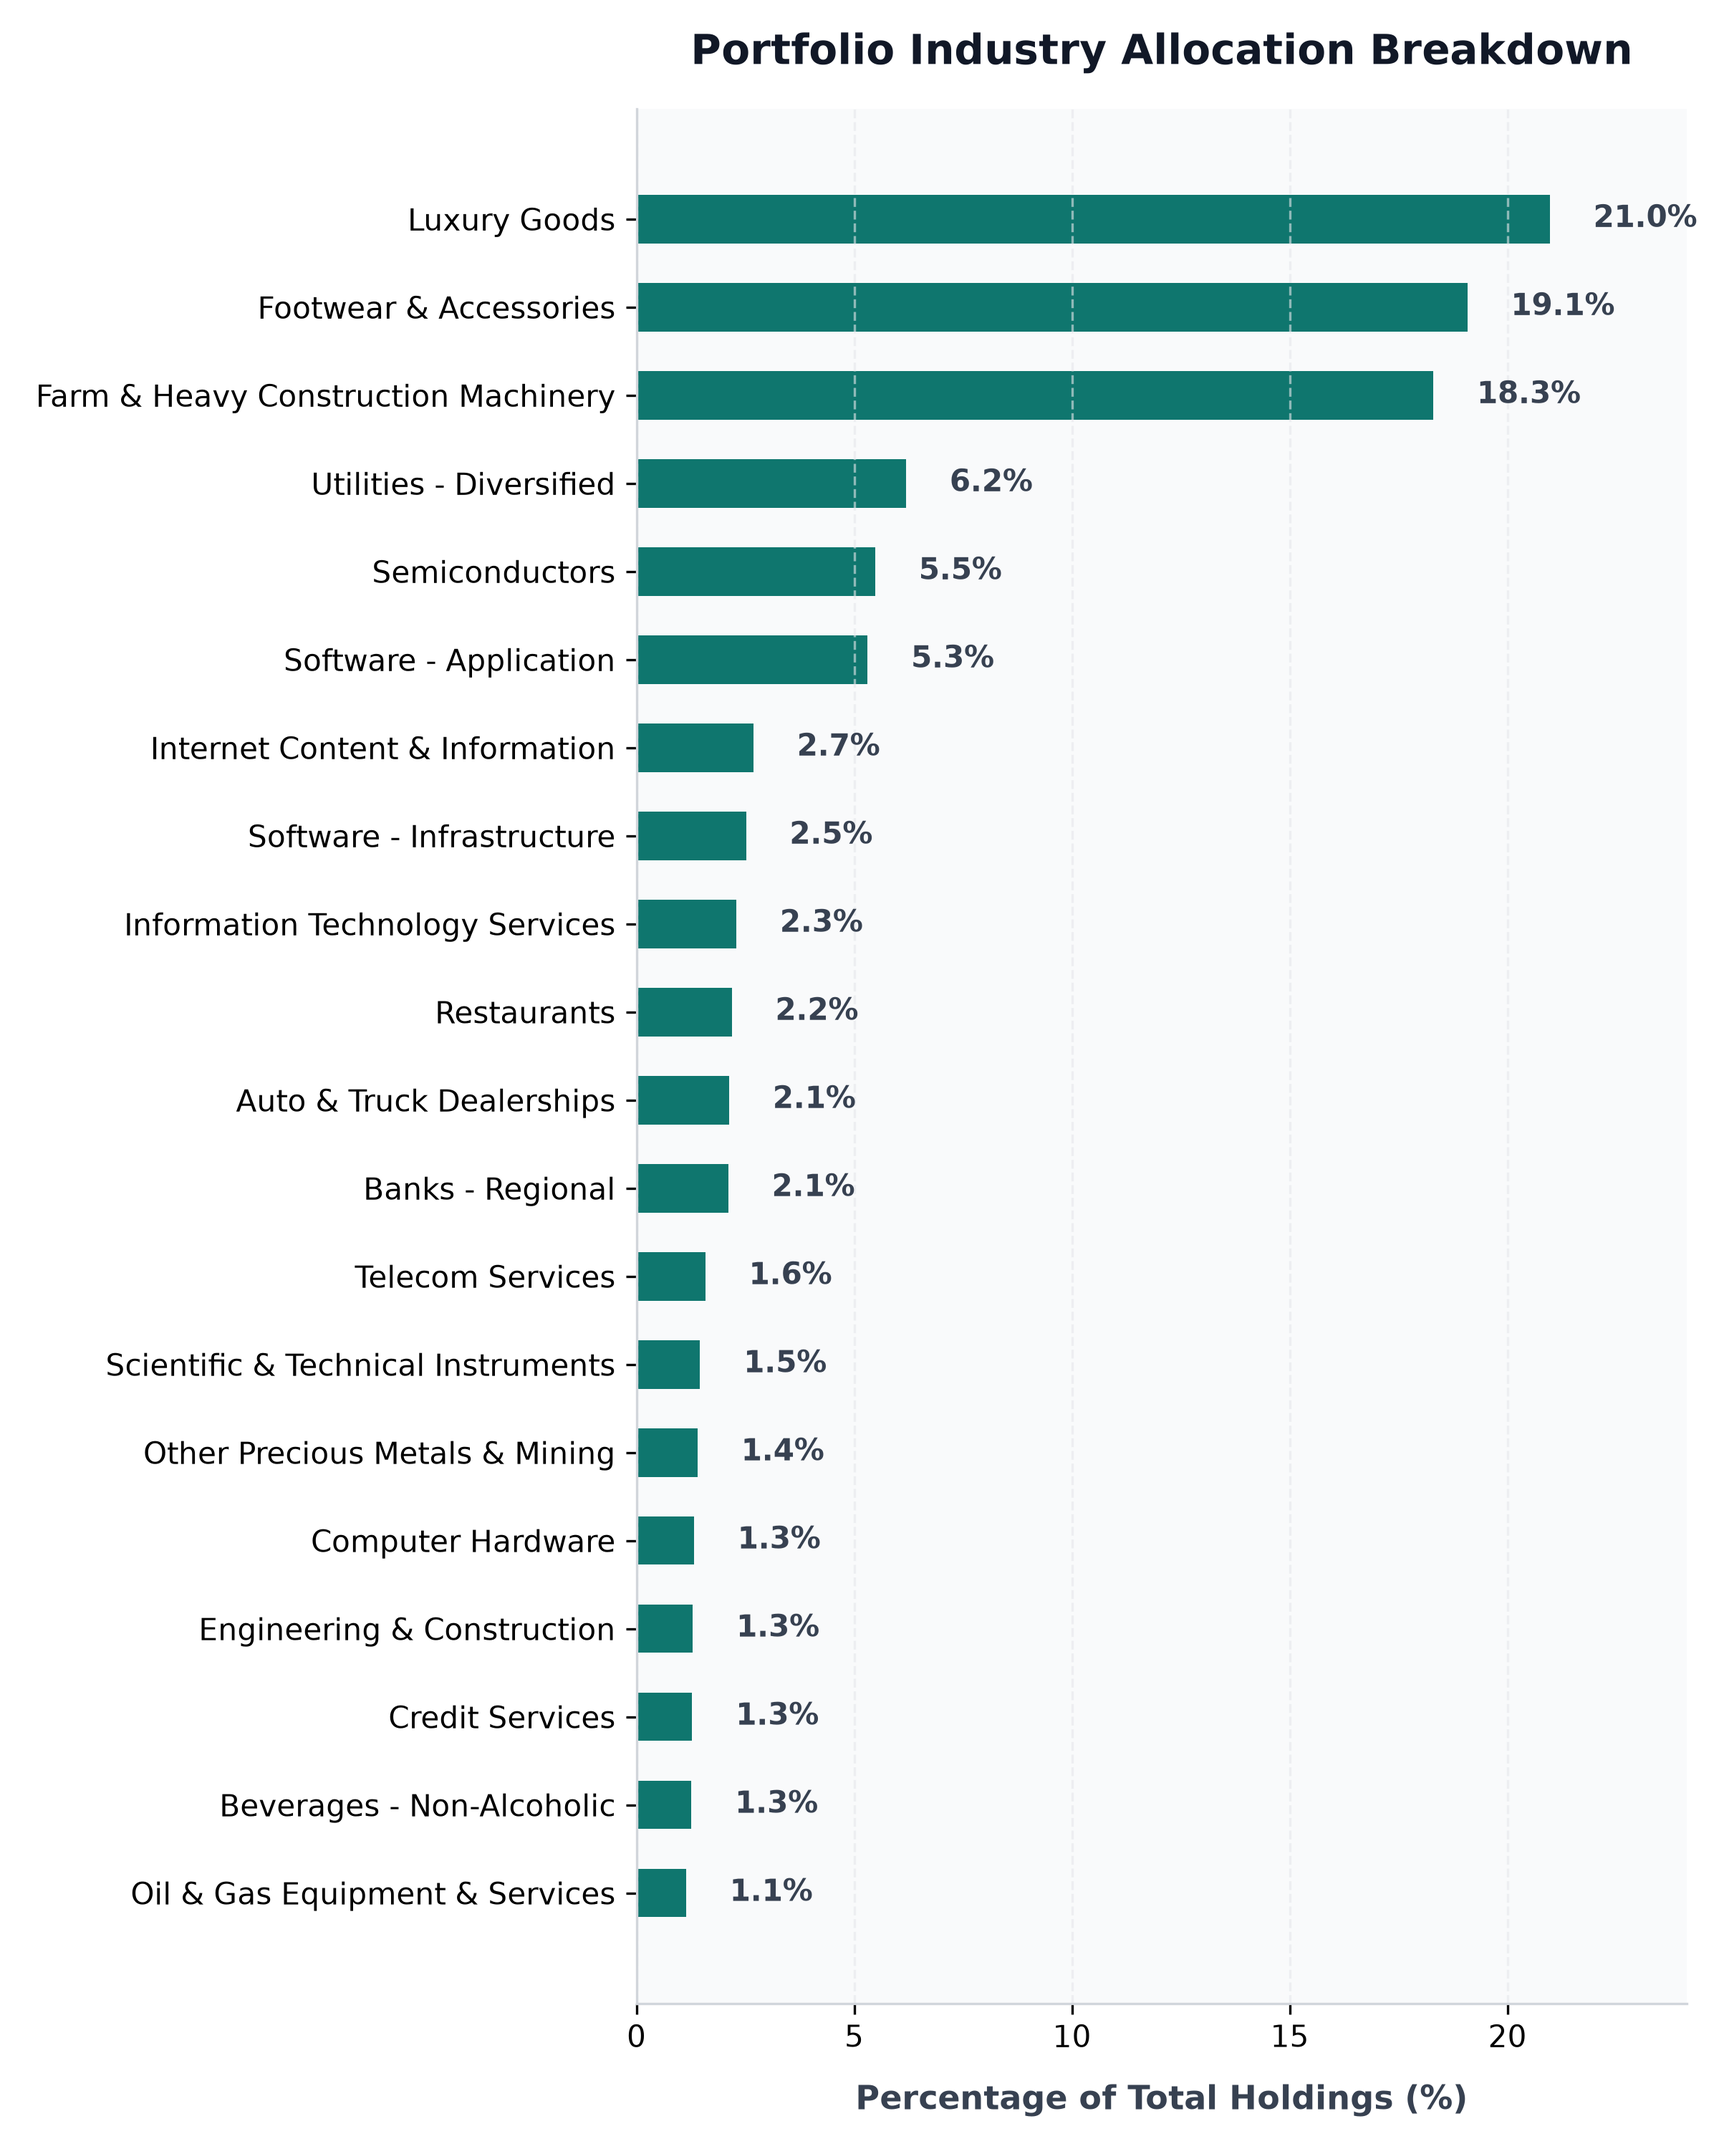
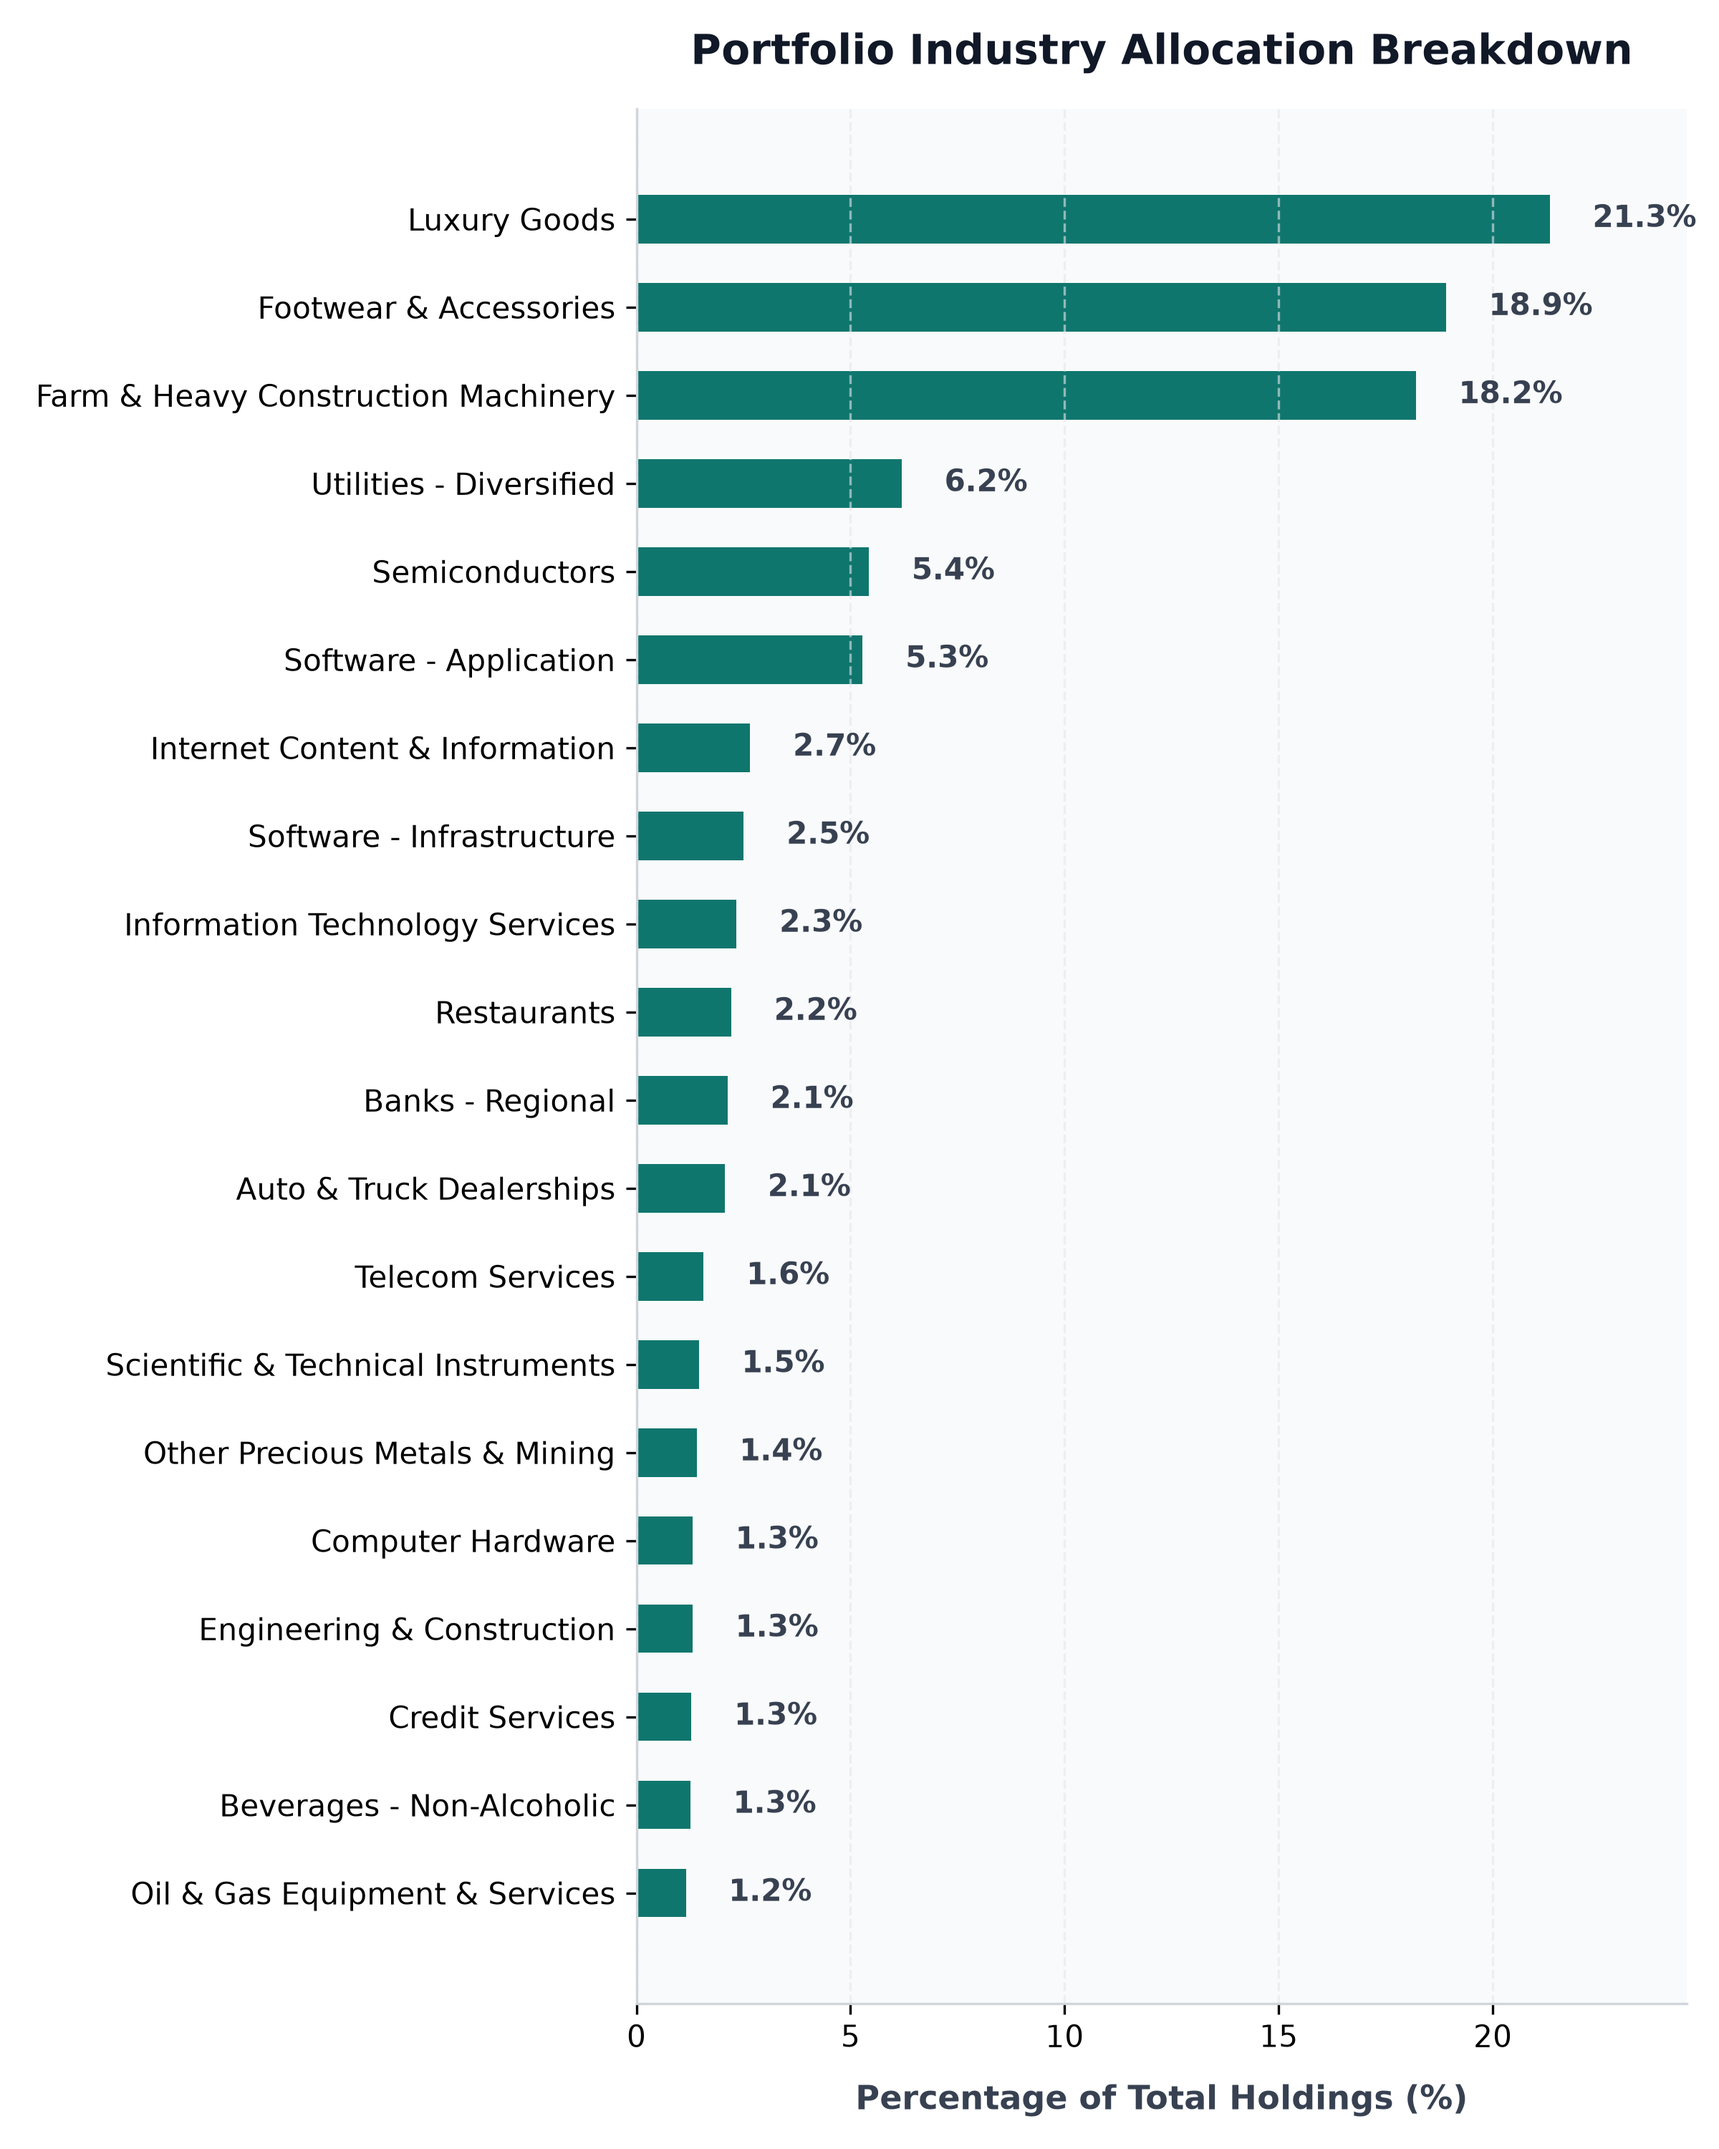
auto: daily portfolio status update - 2026-10-07 00:00:14

diff --git a/src/content/posts/portfolio-performance.md b/src/content/posts/portfolio-performance.md
@@ -1,6 +1,6 @@
 ---
 title: "BadOmen Algorithmic Portfolio Performance & PnL Report"
-pubDatetime: 2026-10-06T06:05:13.497513+08:00
+pubDatetime: 2026-10-07T00:00:14.117391+08:00
 description: "Live performance metrics, active holdings, and historic equity curve for the BadOmen automated paper trading portfolio."
 featured: true
 draft: false
@@ -16,11 +16,11 @@ Welcome to the live performance dashboard for **BadOmen**, our automated algorit
 ## 📊 Portfolio Summary
 | Performance Metric | Value | description |
 | :--- | :--- | :--- |
-| **Net Portfolio Equity** | **$96,219.36** | Total current liquidation value of cash and stock holdings |
-| **Total Unrealized P&L** | 🔴 **$-4,832.75** (-4.78%) | Total return of current open holdings |
+| **Net Portfolio Equity** | **$96,922.30** | Total current liquidation value of cash and stock holdings |
+| **Total Unrealized P&L** | 🔴 **$-4,128.43** (-4.09%) | Total return of current open holdings |
 | **Cash Balance** | $24,224.56 | Idle reserve currency available for limit orders |
-| **Buying Power** | $298,483.67 | Margin-backed buying power for entry allocations |
-| **Report Updated** | `2026-10-06 06:05:13 (SGT)` | Timestamp of daily execution and sync run |
+| **Buying Power** | $300,451.92 | Margin-backed buying power for entry allocations |
+| **Report Updated** | `2026-10-07 00:00:14 (SGT)` | Timestamp of daily execution and sync run |
 
 ## 📈 Net Equity Growth Curve
 The chart below illustrates the historical performance of the account starting from our baseline capital funding of $100,000.00.
@@ -35,35 +35,35 @@ The chart below illustrates the exposure of our currently held active positions 
 ## 💼 Current Position Holdings
 | Ticker | Industry | Shares Owned | Average Entry Cost | Current Price | Unrealized P&L | Return (%) |
 | :--- | :--- | :--- | :--- | :--- | :--- | :--- |
-| **AN** | Auto & Truck Dealerships | 5 | $188.51 | $161.67 | 🔴 $-134.19 | -14.24% |
-| **AVGO** | Semiconductors | 1 | $385.71 | $362.53 | 🔴 $-23.18 | -6.01% |
-| **BIRK** | Footwear & Accessories | 407 | $37.32 | $33.75 | 🔴 $-1,452.06 | -9.56% |
-| **BLBD** | Farm & Heavy Construction Machinery | 231 | $65.52 | $57.03 | 🔴 $-1,960.26 | -12.95% |
-| **BVN** | Other Precious Metals & Mining | 32 | $31.88 | $31.59 | 🔴 $-9.12 | -0.89% |
-| **CELH** | Beverages - Non-Alcoholic | 33 | $29.71 | $27.55 | 🔴 $-71.37 | -7.28% |
-| **CPRI** | Luxury Goods | 1042 | $14.55 | $14.49 | 🔴 $-64.40 | -0.43% |
-| **DUOL** | Software - Application | 14 | $131.04 | $146.52 | 🟢 +$216.59 | +11.81% |
-| **FIS** | Information Technology Services | 23 | $41.79 | $33.59 | 🔴 $-188.60 | -19.62% |
-| **GDDY** | Software - Infrastructure | 6 | $76.21 | $99.54 | 🟢 +$139.98 | +30.61% |
-| **GDS** | Information Technology Services | 30 | $32.77 | $29.29 | 🔴 $-104.40 | -10.62% |
-| **GGAL** | Banks - Regional | 17 | $56.04 | $38.25 | 🔴 $-302.42 | -31.74% |
-| **GOOGL** | Internet Content & Information | 3 | $319.44 | $346.52 | 🟢 +$81.25 | +8.48% |
-| **GPI** | Auto & Truck Dealerships | 3 | $316.15 | $241.44 | 🔴 $-224.13 | -23.63% |
-| **HUBS** | Software - Application | 8 | $221.18 | $221.17 | 🔴 $-0.11 | -0.01% |
-| **ITRI** | Scientific & Technical Instruments | 12 | $81.80 | $87.67 | 🟢 +$70.44 | +7.18% |
-| **KBR** | Engineering & Construction | 27 | $36.23 | $34.52 | 🔴 $-46.25 | -4.73% |
-| **NESR** | Oil & Gas Equipment & Services | 34 | $28.74 | $24.15 | 🔴 $-156.06 | -15.97% |
-| **NU** | Banks - Regional | 57 | $11.60 | $15.22 | 🟢 +$206.33 | +31.21% |
-| **ON** | Semiconductors | 10 | $90.45 | $86.20 | 🔴 $-42.53 | -4.70% |
-| **ORCL** | Software - Infrastructure | 5 | $181.95 | $142.69 | 🔴 $-196.30 | -21.58% |
+| **AN** | Auto & Truck Dealerships | 5 | $188.51 | $157.00 | 🔴 $-157.56 | -16.72% |
+| **AVGO** | Semiconductors | 1 | $385.71 | $378.55 | 🔴 $-7.16 | -1.86% |
+| **BIRK** | Footwear & Accessories | 407 | $37.32 | $33.77 | 🔴 $-1,443.92 | -9.51% |
+| **BLBD** | Farm & Heavy Construction Machinery | 231 | $65.52 | $57.29 | 🔴 $-1,900.20 | -12.56% |
+| **BVN** | Other Precious Metals & Mining | 32 | $31.88 | $31.91 | 🟢 +$1.12 | +0.11% |
+| **CELH** | Beverages - Non-Alcoholic | 33 | $29.71 | $27.73 | 🔴 $-65.43 | -6.67% |
+| **CPRI** | Luxury Goods | 1042 | $14.55 | $14.88 | 🟢 +$344.27 | +2.27% |
+| **DUOL** | Software - Application | 14 | $131.04 | $148.44 | 🟢 +$243.54 | +13.28% |
+| **FIS** | Information Technology Services | 23 | $41.79 | $33.73 | 🔴 $-185.38 | -19.29% |
+| **GDDY** | Software - Infrastructure | 6 | $76.21 | $99.22 | 🟢 +$138.06 | +30.19% |
+| **GDS** | Information Technology Services | 30 | $32.77 | $30.83 | 🔴 $-58.20 | -5.92% |
+| **GGAL** | Banks - Regional | 17 | $56.04 | $38.67 | 🔴 $-295.28 | -31.00% |
+| **GOOGL** | Internet Content & Information | 3 | $319.44 | $347.79 | 🟢 +$85.05 | +8.88% |
+| **GPI** | Auto & Truck Dealerships | 3 | $316.15 | $238.78 | 🔴 $-232.09 | -24.47% |
+| **HUBS** | Software - Application | 8 | $221.18 | $220.34 | 🔴 $-6.73 | -0.38% |
+| **ITRI** | Scientific & Technical Instruments | 12 | $81.80 | $88.25 | 🟢 +$77.40 | +7.89% |
+| **KBR** | Engineering & Construction | 27 | $36.23 | $35.27 | 🔴 $-25.87 | -2.64% |
+| **NESR** | Oil & Gas Equipment & Services | 34 | $28.74 | $24.66 | 🔴 $-138.89 | -14.21% |
+| **NU** | Banks - Regional | 57 | $11.60 | $15.62 | 🟢 +$228.94 | +34.63% |
+| **ON** | Semiconductors | 10 | $90.45 | $86.16 | 🔴 $-43.00 | -4.75% |
+| **ORCL** | Software - Infrastructure | 5 | $181.95 | $145.17 | 🔴 $-183.90 | -20.21% |
 | **PATH** | Software - Infrastructure | 38 | $10.25 | $13.17 | 🟢 +$110.96 | +28.49% |
-| **PYPL** | Credit Services | 17 | $56.05 | $54.26 | 🔴 $-30.43 | -3.19% |
-| **QCOM** | Semiconductors | 15 | $193.68 | $181.55 | 🔴 $-182.02 | -6.26% |
-| **SMCI** | Computer Hardware | 22 | $29.25 | $43.24 | 🟢 +$307.78 | +47.83% |
-| **SRE** | Utilities - Diversified | 57 | $84.75 | $78.21 | 🔴 $-372.92 | -7.72% |
-| **T** | Telecom Services | 47 | $20.85 | $24.24 | 🟢 +$159.31 | +16.26% |
-| **WEN** | Restaurants | 257 | $8.02 | $6.13 | 🔴 $-486.69 | -23.60% |
-| **ZG** | Internet Content & Information | 31 | $31.35 | $28.84 | 🔴 $-77.97 | -8.02% |
+| **PYPL** | Credit Services | 17 | $56.05 | $54.85 | 🔴 $-20.40 | -2.14% |
+| **QCOM** | Semiconductors | 15 | $193.68 | $180.41 | 🔴 $-199.12 | -6.85% |
+| **SMCI** | Computer Hardware | 22 | $29.25 | $43.31 | 🟢 +$309.32 | +48.07% |
+| **SRE** | Utilities - Diversified | 57 | $84.75 | $79.00 | 🔴 $-327.89 | -6.79% |
+| **T** | Telecom Services | 47 | $20.85 | $24.27 | 🟢 +$160.50 | +16.38% |
+| **WEN** | Restaurants | 257 | $8.02 | $6.26 | 🔴 $-451.99 | -21.92% |
+| **ZG** | Internet Content & Information | 31 | $31.35 | $28.62 | 🔴 $-84.58 | -8.70% |
 
 ## 🔴 Recent Realized Trades
 | Ticker | Shares Sold | Entry Price | Exit Price | Strategy Trigger | Realized Return | Exit Date |
